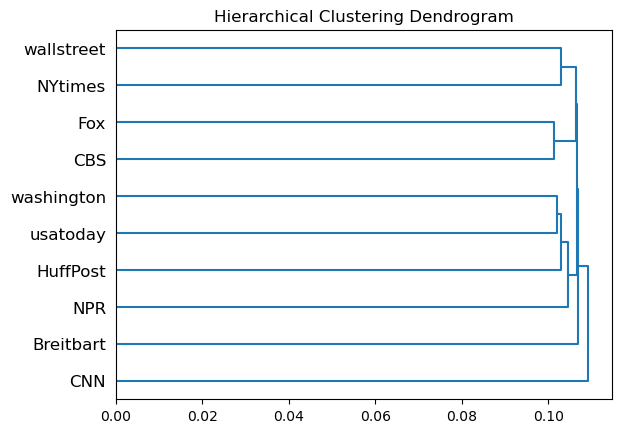
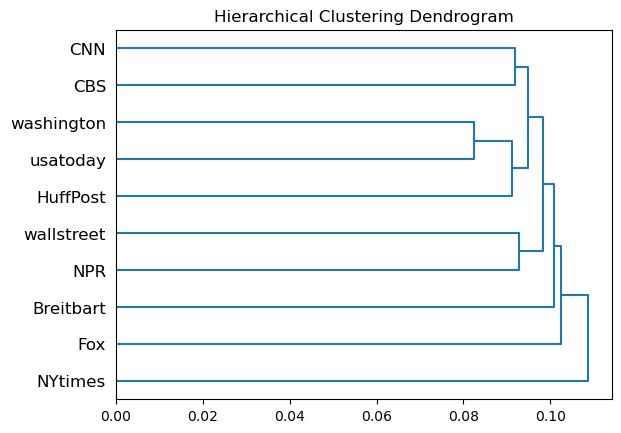
change a little

diff --git a/program/analysis.py b/program/analysis.py
@@ -562,21 +562,25 @@ class ClusterCompare(object):
         basic_distance_matrix = np.zeros((len(cluster_list)+1,len(cluster_list)+1))
 
         for cluster in cluster_list:
+            if len(cluster) ==  len(cluster_list) + 1:
+                continue
             for i in cluster:
                 for j in cluster:
                     if i != j:
                         distance_matrix[i][j] += 1
-        for i in range(len(cluster_list)):
+        for i in range(len(cluster_list)+1):
             temp = np.sum(distance_matrix[i],axis=0)
             if temp != 0:
                 distance_matrix[i] = distance_matrix[i] / temp
 
         for cluster in base_cluster_list:
+            if len(cluster) ==  len(cluster_list) + 1:
+                continue
             for i in cluster:
                 for j in cluster:
                     if i != j:
                         basic_distance_matrix[i][j] += 1
-        for i in range(len(cluster_list)):
+        for i in range(len(cluster_list)+1):
             basic_distance_matrix[i] = basic_distance_matrix[i] / np.sum(basic_distance_matrix[i],axis=0)
         distance = 0
         for i in range(len(distance_matrix)):

diff --git a/baseline.py b/baseline.py
@@ -64,7 +64,7 @@ def distance_calculate(cluster_list):
             for j in cluster:
                 if i != j:
                     distance_matrix[i][j] += 1
-    for i in range(len(cluster_list)):
+    for i in range(len(cluster_list)+1):
         distance_matrix[i] = distance_matrix[i] / np.sum(distance_matrix[i],axis=0)
     return distance_matrix
 

diff --git a/program/run_function.py b/program/run_function.py
@@ -388,6 +388,8 @@ def label_score_analysis(
                 length = len(k.split(' '))
                 error_count += 1
                 continue
+        if misc_args.global_debug and index > 100:
+            break
     analysis_data['media_average'] = dict()
     print("The total number is {}".format(index))
 
